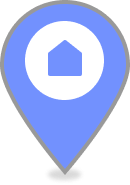
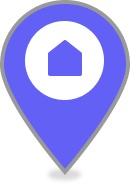
FE_feat/FuncMap 지도 마커 디자인 변경

diff --git a/front/src/Components/Map/MapLogic.tsx b/front/src/Components/Map/MapLogic.tsx
@@ -1,6 +1,8 @@
 import { useState, useEffect } from "react";
+import styled from "styled-components";
 import axios from "axios";
 import CurrentLocation from "./CurrentLocation";
+import "./customOverlay.css";
 
 declare global {
   interface Window {
@@ -23,26 +25,26 @@ export function MapLogic() {
       // 지도 객체 생성
       const map = new kakao.maps.Map(container as HTMLElement, options);
       // 마커 생성
-      const currentPos = new kakao.maps.LatLng(location.latitude, location.longitude);
-      const currentImageSrc = "./Images/currentPos.png";
-      const currentImageSize = new kakao.maps.Size(24, 35);
-      const currentMarkerImage = new kakao.maps.MarkerImage(currentImageSrc, currentImageSize);
-      const marker = new kakao.maps.Marker({
-        position: currentPos,
+      const PositionCurrent = new kakao.maps.LatLng(location.latitude, location.longitude);
+      const ImageSrcCurrent = "./Images/currentPos.png";
+      const ImageSizeCurrent = new kakao.maps.Size(24, 35);
+      const MarkerImageCurrent = new kakao.maps.MarkerImage(ImageSrcCurrent, ImageSizeCurrent);
+      const MarkerCurrent = new kakao.maps.Marker({
+        position: PositionCurrent,
         title: "현 위치",
-        image: currentMarkerImage,
+        image: MarkerImageCurrent,
       });
-      const myPlace = new kakao.maps.LatLng(37.33370506366528, 127.09738924623072); // 추후에 유저가 설정한 좌표 들어감
-      const imageSrc = "./Images/myPlace.png";
-      const imageSize = new kakao.maps.Size(24, 35);
-      const markerImage = new kakao.maps.MarkerImage(imageSrc, imageSize);
-      const myMarker = new kakao.maps.Marker({
-        position: myPlace,
+      const PositionMyPlace = new kakao.maps.LatLng(37.33370506366528, 127.09738924623072); // 추후에 유저가 설정한 좌표 들어감
+      const ImageSrcMy = "./Images/myPlace.png";
+      const ImageSizeMy = new kakao.maps.Size(24, 35);
+      const MarkerImageMy = new kakao.maps.MarkerImage(ImageSrcMy, ImageSizeMy);
+      const MarkerMy = new kakao.maps.Marker({
+        position: PositionMyPlace,
         title: "우리 집",
-        image: markerImage,
+        image: MarkerImageMy,
       });
-      marker.setMap(map);
-      myMarker.setMap(map);
+      MarkerCurrent.setMap(map);
+      MarkerMy.setMap(map);
       map.setMaxLevel(10);
       setMap(map);
 
@@ -55,15 +57,19 @@ export function MapLogic() {
           },
         })
         .then((response) => {
-          console.log(response.data.response.body.items.item);
           const pharmacies = response.data.response.body.items.item;
           for (let i = 0; i < pharmacies.length; i++) {
-            const markerPosition = new kakao.maps.LatLng(pharmacies[i].wgs84Lat, pharmacies[i].wgs84Lon);
-            const marker = new kakao.maps.Marker({
-              position: markerPosition,
+            const PositionPharmacy = new kakao.maps.LatLng(pharmacies[i].wgs84Lat, pharmacies[i].wgs84Lon);
+            const content =
+              '<div class="customoverlay">' + `<span class="title">${pharmacies[i].dutyName}</span>` + "</div>";
+            const MarkerPharmacy = new kakao.maps.CustomOverlay({
+              map: map,
+              position: PositionPharmacy,
+              content: content,
+              yAnchor: 1,
               title: pharmacies[i].dutyName,
             });
-            marker.setMap(map);
+            MarkerPharmacy.setMap(map);
           }
         });
     }

diff --git a/front/src/Components/Map/KakaoMap.tsx b/front/src/Components/Map/KakaoMap.tsx
@@ -5,7 +5,7 @@ import { MapLogic } from "./MapLogic";
 import { zIndex_KakaoMap } from "../../Util/z-index";
 import { SELECT_HIDDEN, SELECT_OPTION_MAP } from "../../Util/type";
 import { AiOutlinePlus, AiOutlineMinus } from "react-icons/ai";
-import { BiTargetLock } from "react-icons/bi";
+import { BiTargetLock, BiMapAlt } from "react-icons/bi";
 
 interface Props {
   hidden: SELECT_HIDDEN;
@@ -67,6 +67,16 @@ export default function KakaoMap({ hidden, setHidden }: Props) {
           onClickMidnight={() => setSelected("midnight")}
           onClickBookmarks={() => setSelected("bookmarks")}
         />
+        <ReControler className={hidden ? "close" : ""}>
+          <ReBtn>
+            <BiMapAlt className="icon" />
+            <div className="label">
+              현 지도에서
+              <br />
+              다시 검색
+            </div>
+          </ReBtn>
+        </ReControler>
       </TopControler>
       <LocaControler>
         <LocaBtn onClick={getCurrentLocBtn}>
@@ -147,6 +157,68 @@ const ZoomBtn = styled.span`
     margin-top: 5px;
   }
 `;
+const ReControler = styled.div`
+  display: flex;
+  justify-content: center;
+  align-items: center;
+  position: fixed;
+  top: 70px;
+  left: 1115px;
+  padding: 4px;
+  z-index: ${zIndex_KakaoMap.CurrentLocation};
+  border-radius: 8px;
+  background-color: var(--white);
+  box-shadow: var(--bs-lg);
+  @media (max-width: 1200px) {
+    left: 1010px;
+    transition: 0.2s;
+    &.close {
+      left: 640px;
+      transition: 0.2s;
+    }
+  }
+  @media (max-width: 768px) {
+    padding: 5px;
+    top: 415px;
+    left: 540px;
+    transition: 0.2s;
+    &.close {
+      left: 60px;
+      transition: 0.2s;
+    }
+  }
+`;
+const ReBtn = styled.span`
+  cursor: pointer;
+  display: block;
+  width: 67px;
+  height: 67px;
+  text-align: center;
+  .icon {
+    align-items: center;
+    font-size: 1.8rem;
+    color: var(--blue-200);
+    margin-top: 5px;
+    transition: 0.2s;
+  }
+  .label {
+    align-items: center;
+    font-size: 0.66rem;
+    font-weight: 500;
+    color: var(--black-200);
+    transition: 0.2s;
+  }
+  &:hover {
+    .icon {
+      color: var(--blue-500);
+      transition: 0.2s;
+    }
+    .label {
+      color: var(--black-500);
+      transition: 0.2s;
+    }
+  }
+`;
 const TopControler = styled.div`
   position: fixed;
   z-index: ${zIndex_KakaoMap.CtrlContainer};
@@ -165,7 +237,7 @@ const TopControler = styled.div`
     left: 540px;
     transition: 0.2s;
     &.close {
-      left: 80px;
+      left: 60px;
       transition: 0.2s;
     }
   }

diff --git a/front/src/Components/PharmList/PharmLists.tsx b/front/src/Components/PharmList/PharmLists.tsx
@@ -14,7 +14,6 @@ interface Props {
 }
 //데이터 들어오면 map으로 돌리기전에 하드코딩으로 두개해놨음
 export default function PharmLists({ hidden, setHidden }: Props) {
-  // const [hidden, setHidden] = useState<boolean>(false);
   /* 조건부로 할려고 임의로 해놓은 것!
   나중에 데이터 넘어오면 바꿀것*/
 
@@ -65,19 +64,6 @@ export default function PharmLists({ hidden, setHidden }: Props) {
             <PharmItem />
           </PharmItemContainer>
         </PharmContainer>
-        {/* {hidden ? (
-          <EmptyContainer className="hide">
-            <ShowBtn className={hidden ? "" : "hide"} onClick={() => setHidden(false)}>
-              {"> 눌러서 열기"}
-            </ShowBtn>
-          </EmptyContainer>
-        ) : (
-          <EmptyContainer className="hide">
-            <ShowBtn className={hidden ? "hide" : ""} onClick={() => setHidden(true)}>
-              {"< 눌러서 숨기기"}
-            </ShowBtn>
-          </EmptyContainer>
-        )} */}
       </ContainerWrap>
     </ListContainer>
   );

diff --git a/front/src/Components/Map/customOverlay.css b/front/src/Components/Map/customOverlay.css
@@ -1,0 +1,40 @@
+.customoverlay {
+  position: relative;
+  bottom: 5px;
+  background-color: var(--blue-400);
+  border: 1.2px solid var(--blue-800);
+  border-radius: 6px;
+  box-shadow: rgba(0, 0, 0, 0.2) 0px 2px 2px, rgba(0, 0, 0, 0.2) 0px 2px 3px -3px, hsl(0, 0%, 100%, 0.3) 0 1px 0 0 inset;
+}
+.customoverlay:after,
+.customoverlay:before {
+  top: 100%;
+  left: 50%;
+  border: solid transparent;
+  content: "";
+  height: 0;
+  width: 0;
+  position: absolute;
+  pointer-events: none;
+}
+.customoverlay:after {
+  border-color: rgba(255, 255, 255, 0);
+  border-top-color: var(--blue-400);
+  border-width: 6px;
+  margin-left: -6px;
+}
+.customoverlay:before {
+  border-color: rgba(194, 225, 245, 0);
+  border-top-color: var(--blue-800);
+  border-width: 7.5px;
+  margin-left: -7.5px;
+}
+.customoverlay .title {
+  display: block;
+  text-align: center;
+  padding: 5px 10px;
+  border-radius: 6px;
+  color: var(--white);
+  font-size: 14px;
+  font-weight: 400;
+}

diff --git a/front/src/main.css b/front/src/main.css
@@ -29,10 +29,11 @@
   --blue-100: hsl(242, 81%, 92%);
   --blue-200: hsl(241, 75%, 86%);
   --blue-300: hsl(241, 80%, 80%);
-  --blue-400: hsl(241, 85%, 75%);
+  --blue-400: hsl(241, 73%, 68%);
   --blue-500: hsl(241, 88%, 67%);
   --blue-600: hsl(241, 81%, 63%);
   --blue-700: hsl(241, 68%, 57%);
+  --blue-800: hsl(241, 54%, 36%);
 
   --mint: hsl(173, 66%, 45%);
   --mint-hover: hsl(173, 75%, 39%);

diff --git a/front/src/Components/SignUpForm/PharmSignForms.tsx b/front/src/Components/SignUpForm/PharmSignForms.tsx
@@ -209,7 +209,6 @@ export default function PharmSignForms() {
             }}
           />
         </InputContainer>
-
         <InputContainer>
           <AiOutlineCamera className="inputImage" aria-hidden="true" />
           <label htmlFor="pharm-img"></label>

diff --git a/front/src/Components/Header/Layout.tsx b/front/src/Components/Header/Layout.tsx
@@ -1,5 +1,5 @@
 import styled from "styled-components";
-import { Outlet, useLocation } from "react-router";
+import { Outlet } from "react-router";
 import Header from "./Header";
 
 interface AccountProps {
